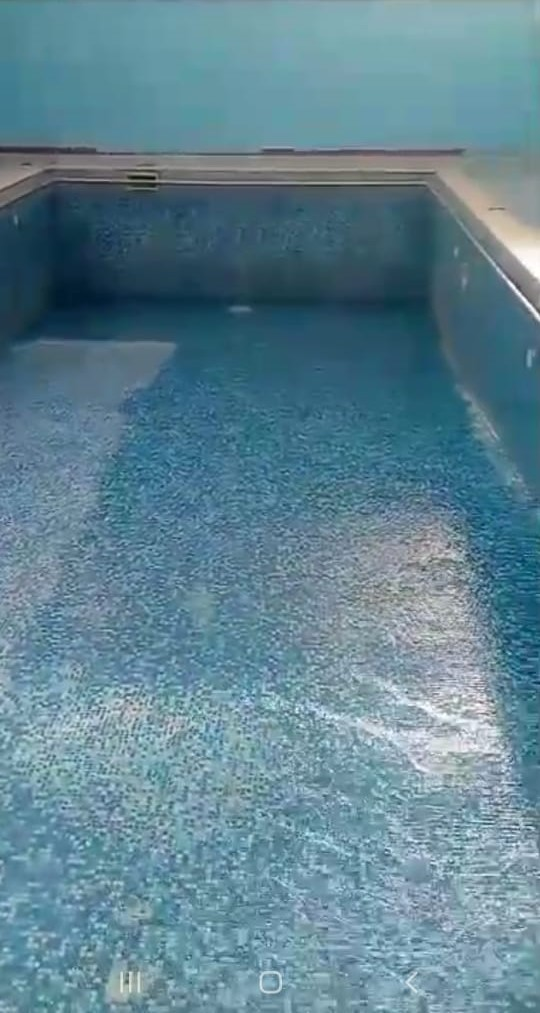
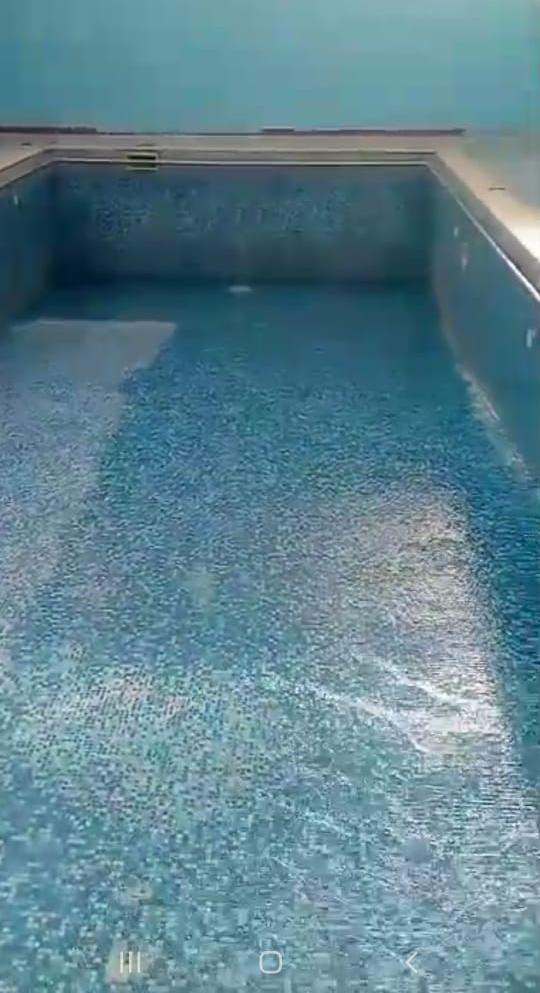
center the image

diff --git a/index.html b/index.html
@@ -13,7 +13,7 @@
 <body>
   <div class="container">
     <div class="header-image">
-      <img src="pool.jpeg" alt="">
+      <img src="pool.jpeg" class="cool" alt="">
     </div>
     <div class="small-images">
       <div><img src="farmhouse-playarea.jpeg" alt=""></div>

diff --git a/style.css b/style.css
@@ -55,6 +55,10 @@ img {
   object-fit: cover;
 }
 
+.cool {
+  object-position: top;
+}
+
 h1 {
   font-family: Impact, Haettenschweiler, "Arial Narrow Bold", sans-serif;
   font-weight: 100;
